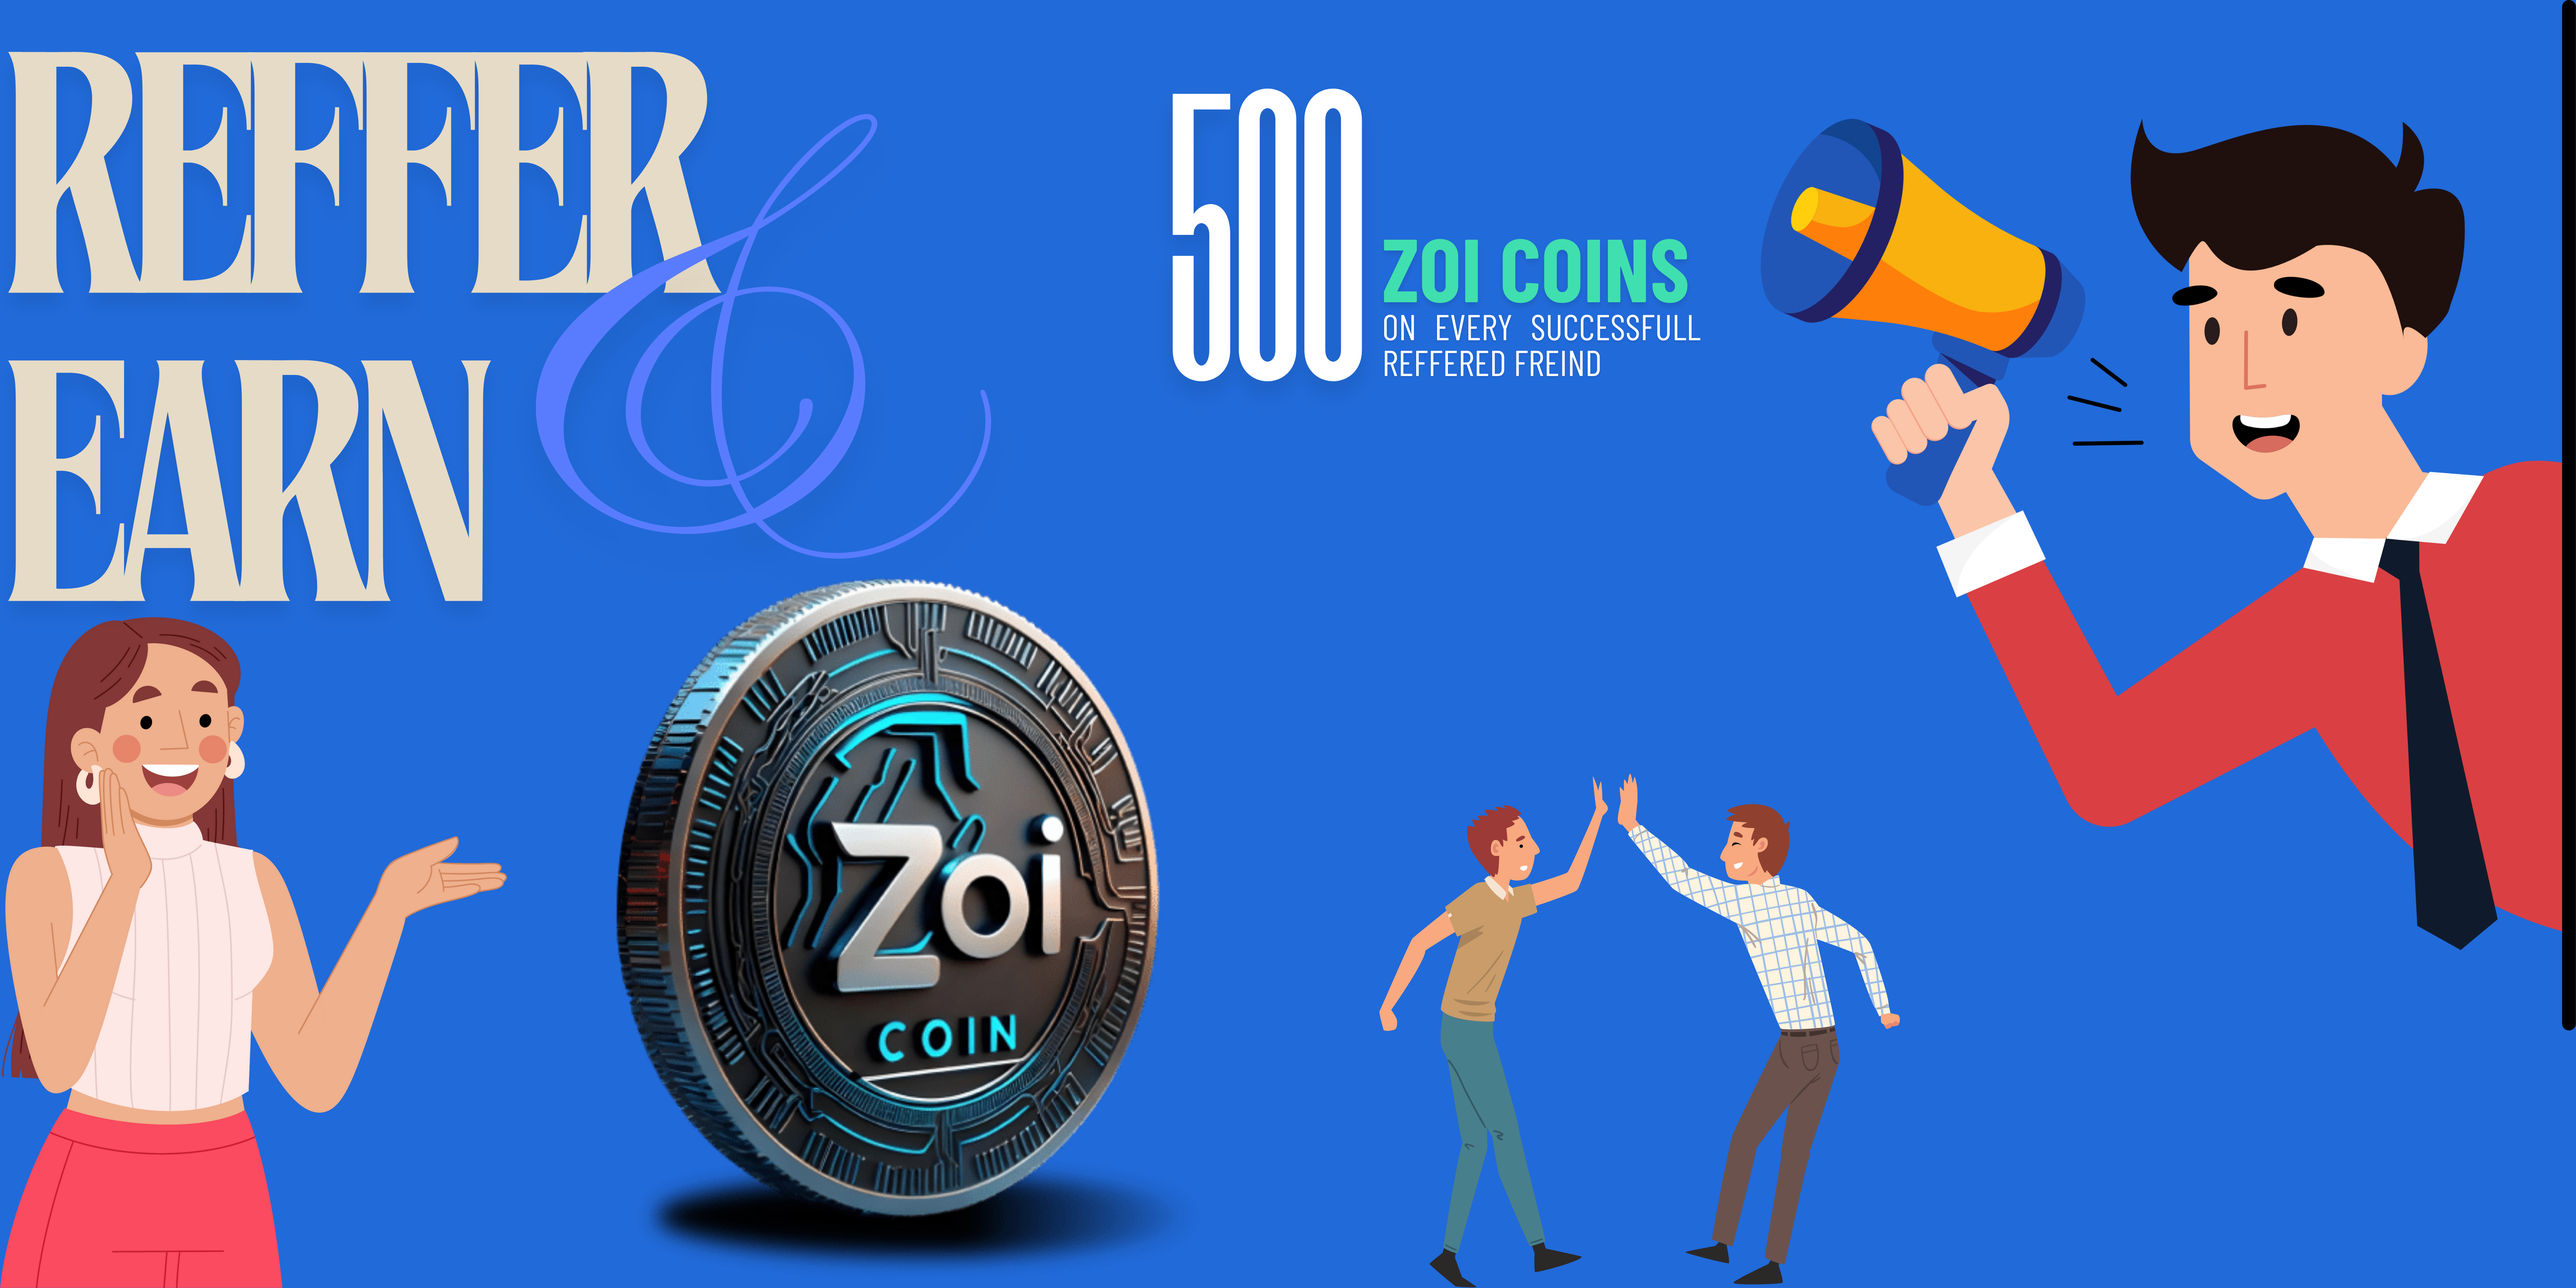
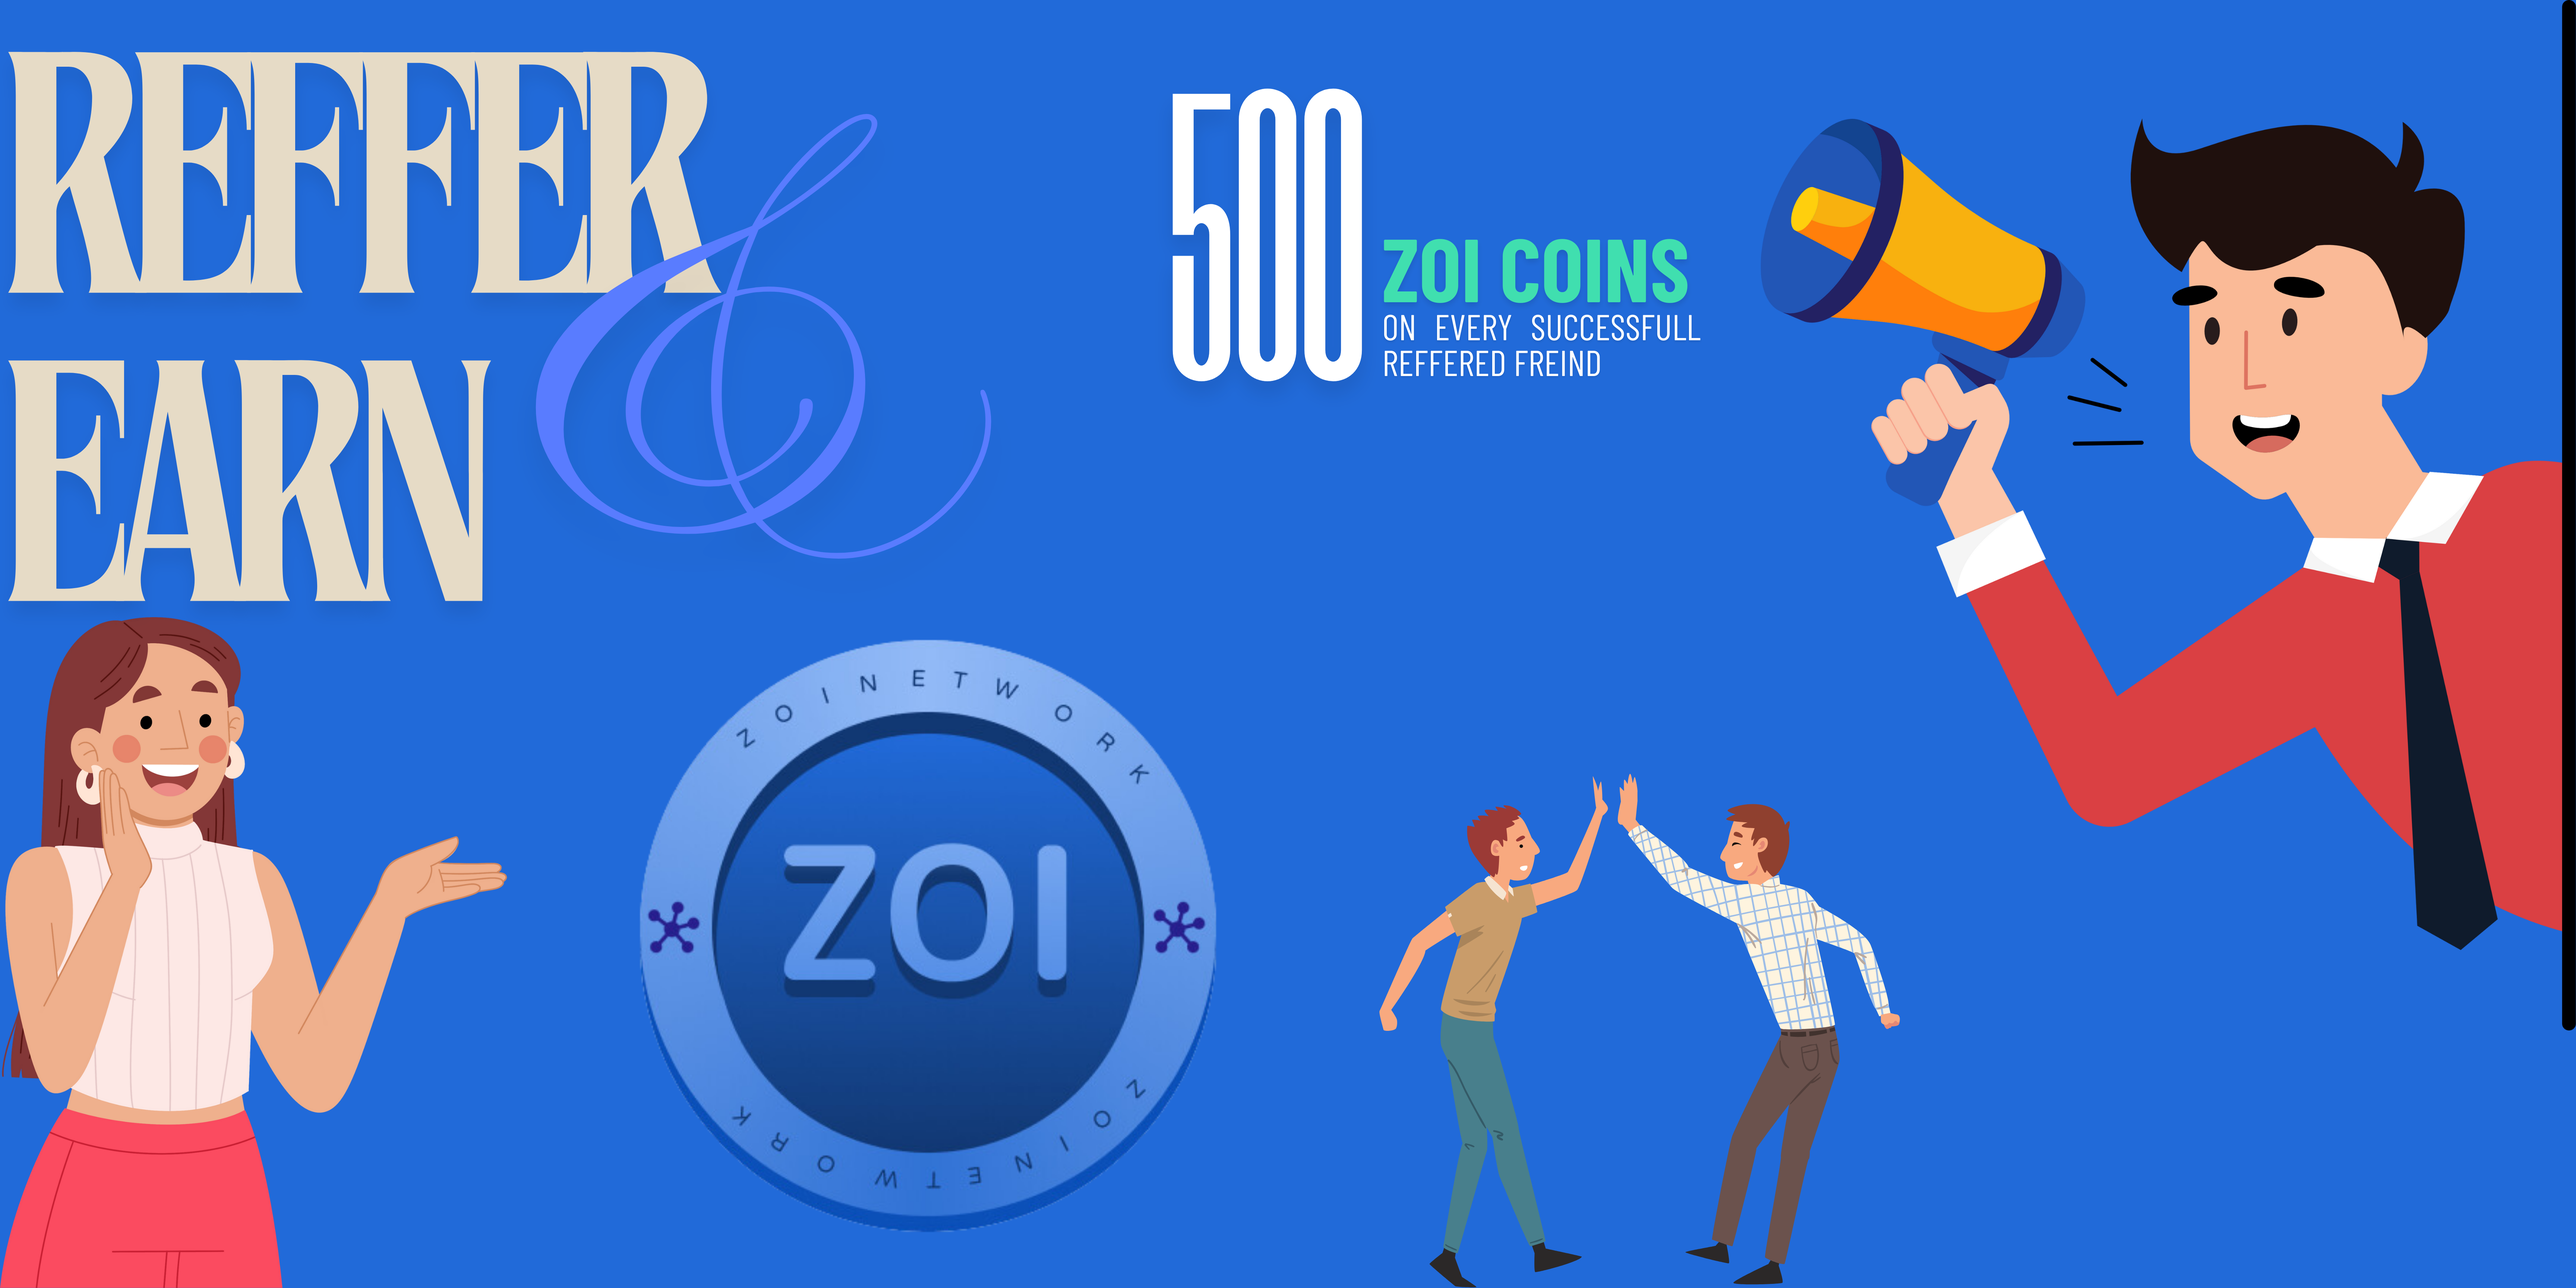
change

Changed region(s): [[0.2188, 0.4375, 0.5, 1.0]]

diff --git a/zoinetwork/server/index.html b/zoinetwork/server/index.html
@@ -163,7 +163,7 @@ table, td { color: #000000; } @media (max-width: 480px) { #u_content_image_3 .v-
   <tr>
     <td style="padding-right: 0px;padding-left: 0px;" align="center">
       
-      <img align="center" border="0" src="https://res.cloudinary.com/dhidllogi/image/upload/v1716876113/image-6_rtvjys.png" alt="Image" title="Image" style="outline: none;text-decoration: none;-ms-interpolation-mode: bicubic;clear: both;display: inline-block !important;border: none;height: auto;float: none;width: 26%;max-width: 137.8px;" width="137.8" class="v-src-width v-src-max-width"/>
+      <img align="center" border="0" src=https://res.cloudinary.com/dhidllogi/image/upload/v1718262743/zoicoin_jlpxxo.png" alt="Image" title="Image" style="outline: none;text-decoration: none;-ms-interpolation-mode: bicubic;clear: both;display: inline-block !important;border: none;height: auto;float: none;width: 26%;max-width: 137.8px;" width="137.8" class="v-src-width v-src-max-width"/>
       
     </td>
   </tr>

diff --git a/zoinetwork/client/src/pages/Wallet.jsx b/zoinetwork/client/src/pages/Wallet.jsx
@@ -1,6 +1,6 @@
 import "../assets/stylesheets/wallet.css"
 import profile from "../assets/images/profile.svg"
-import zoicoin from "../assets/images/zoi-coin.png"
+import zoicoin from "../assets/images/zoicoin.svg"
 import usdt from "../assets/images/usdt.png"
 import { useAuth } from "../store/auth";
 import { Navigate } from "react-router-dom";

diff --git a/zoinetwork/client/src/pages/Mining.jsx b/zoinetwork/client/src/pages/Mining.jsx
@@ -1,5 +1,5 @@
 import "../assets/stylesheets/mining.css"
-import zoicoin from "../assets/images/zoi-coin.png"
+import zoicoin from "../assets/images/zoicoin.svg"
 import { useSpring, animated } from 'react-spring';
 import { useLocalStorage } from 'react-use';
 import { useAuth } from "../store/auth";

diff --git a/zoinetwork/client/src/assets/stylesheets/wallet.css b/zoinetwork/client/src/assets/stylesheets/wallet.css
@@ -93,6 +93,7 @@ width: 70%;
 .asset figure img {
     width: 50px;
     height: 50px;
+    border-radius: 100px;
 }
 .asset .coins {
     display: flex;
